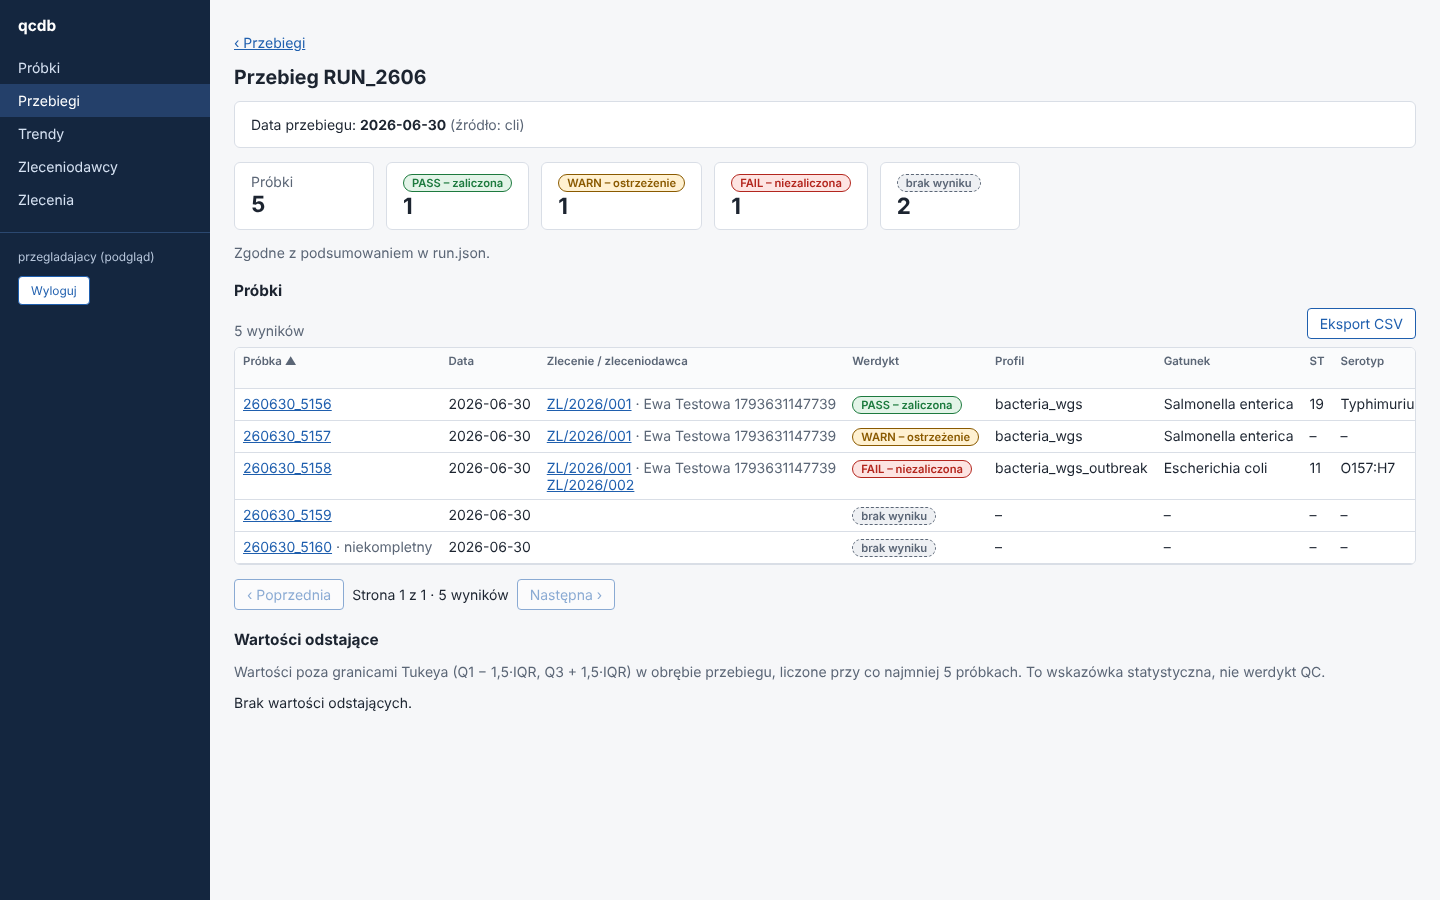
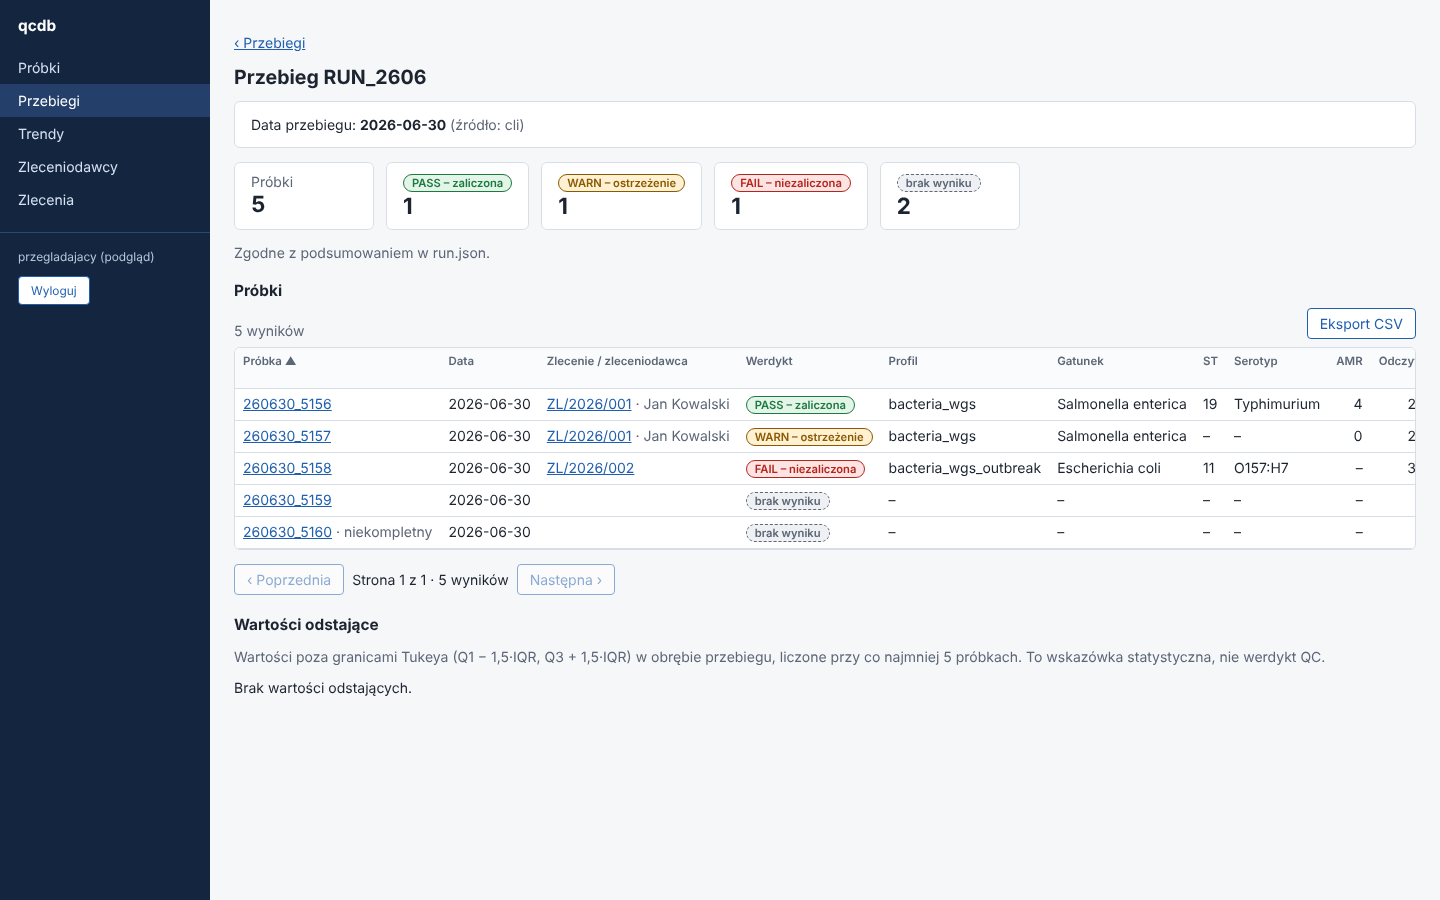
Pages demo: bind vite preview to 127.0.0.1 (IPv6 localhost on CI runners)
Claude-Session: https://claude.ai/code/session_01VphaiFee4FbiF4KG7LuRVY

diff --git a/frontend/playwright.config.ts b/frontend/playwright.config.ts
@@ -24,7 +24,7 @@ export default defineConfig({
       reuseExistingServer: false,
     },
     {
-      command: "npx vite build && npx vite preview --port 4173 --strictPort",
+      command: "npx vite build && npx vite preview --host 127.0.0.1 --port 4173 --strictPort",
       url: "http://127.0.0.1:4173",
       env: { QCDB_API_URL: "http://127.0.0.1:8011" },
       reuseExistingServer: false,
